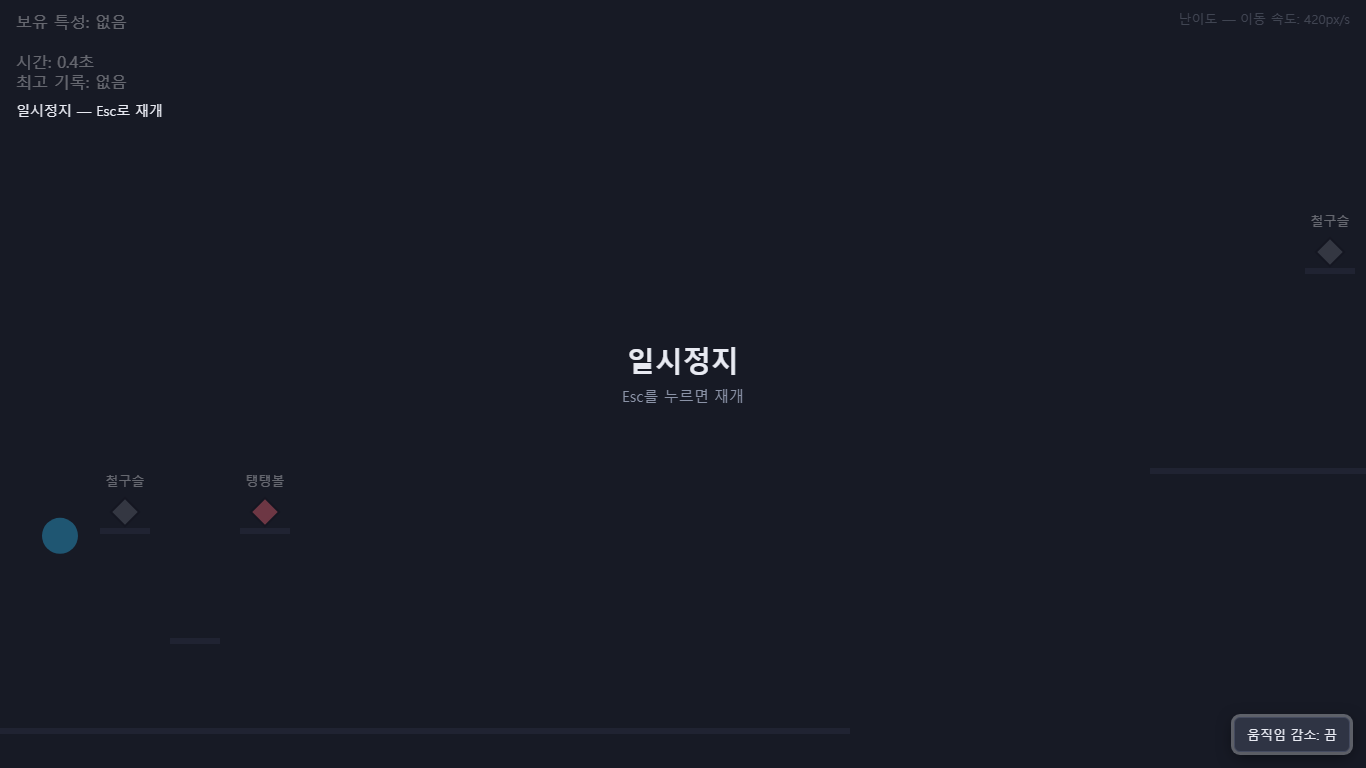
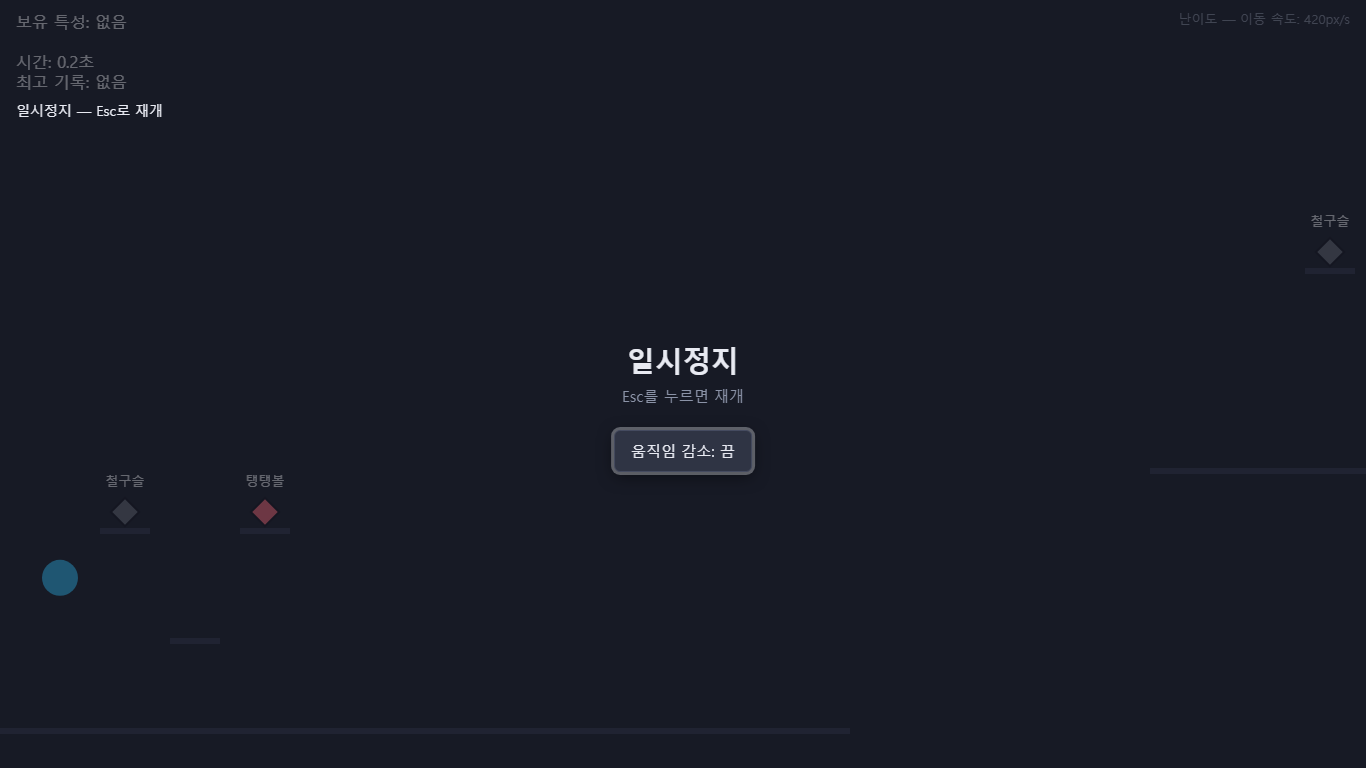
Center the reduce-motion button, fill in verification guide + AI notes
Moves #motion-toggle to sit centered right under the pause message
instead of a corner, so it reads as part of that same prompt. Fills
in ASSIGNMENT.md's 검증 안내서 and AI 3줄 sections -- the only two
blanks the assignment itself designates as fill-after-deploy
submission content, distinct from the progress notes that otherwise
stay out of that file. Also checks off the privacy/secrets scan in
PROGRESS.md after a repo-wide search turned up nothing.

Changed region(s): [[0.8917, 0.9062, 1.0, 1.0], [0.4305, 0.5312, 0.5534, 0.625], [0.0307, 0.6562, 0.0615, 0.7812]]

diff --git a/style.css b/style.css
@@ -28,14 +28,17 @@ html, body {
 
 /* hidden outside of pause -- only shown while paused (see #game-wrap.is-paused below) so it doesn't
    sit on screen as HUD clutter during normal play. display:none also drops it from tab order and
-   click hit-testing while hidden, not just visually. */
+   click hit-testing while hidden, not just visually. centered under the "일시정지 / Esc를 누르면
+   재개" text (drawn on canvas at height/2 -12 and +18) so it reads as part of that same message
+   instead of a corner control easy to miss. */
 #motion-toggle {
   display: none;
   position: absolute;
-  right: 16px;
-  bottom: 16px;
-  padding: 8px 12px;
-  font-size: 13px;
+  left: 50%;
+  top: 50%;
+  transform: translate(-50%, 46px);
+  padding: 10px 16px;
+  font-size: 15px;
   font-family: sans-serif;
   color: #e8eaf2;
   background: #2f3444;

diff --git a/PROGRESS.md b/PROGRESS.md
@@ -15,7 +15,7 @@
 7. ✅ 카드 3 — 데이터 기반 난이도 조정
 8. ✅ 카드 4 — 저장과 복구
 9. ✅ 카드 5 — 손맛과 선택권
-10. ⬜ 배포 검증 안내서 · AI 3줄 작성 · 제출
+10. ✅ 배포 검증 안내서 · AI 3줄 작성 (ASSIGNMENT.md에 최종본 기록) · ⬜ 제출
 
 ## 게임 컨셉
 
@@ -39,7 +39,8 @@
 
 ## 전체 요약
 - 카드 1~5 모두 완료(카드 1은 30초 내 완주만 보류). 카드 5는 실패 시 화면 흔들림 + 움직임 감소 버튼 추가, Playwright 4건 검증
-- 다음 할 일: 배포 검증 안내서 최종본 · AI 3줄 작성 · 제출 준비
+- 검증 안내서·AI 3줄을 ASSIGNMENT.md에 최종 기록 완료. 남은 건 실제 제출뿐
+- 다음 할 일: (선택) 카드 1의 30초 내 완주 검증, 이후 제출
 
 ## 카드별 진행 상황
 
@@ -64,8 +65,8 @@
 - [x] 저장값 비거나 손상돼도 기본값 실행
 - [x] 현재 판 초기화 + 보존 기록 유지
 - [x] 음소거/움직임 감소 작동
-- [ ] 개인정보·비밀값 0건
-- [ ] 학생 자체 점검 항목 모두 완료
+- [x] 개인정보·비밀값 0건 (저장소 전체 텍스트 검색으로 이메일·API 키·비밀번호 패턴 없음 확인)
+- [ ] 학생 자체 점검 항목 모두 완료 (카드 1의 30초 내 완주만 보류)
 
 ## 학생 자체 점검 상세 체크리스트
 
@@ -74,7 +75,7 @@
 **카드 3** — [x] 전/후 10회+ 기록 · [x] 선택 이유 근거 · [x] 기록표 · [x] 바꾼 값+이유
 **카드 4** — [x] 초기화/보존 분리 · [x] 손상값 기본값 실행 · [x] 값 목록 · [x] 검사 결과
 **카드 5** — [x] 사건별 효과 · [x] 음소거/감소 작동 · [x] 화면 파일 · [x] 적용 결과
-**제출물** — [ ] 검증 안내서 · [ ] 3단계 이내 · [ ] AI 3줄
+**제출물** — [x] 검증 안내서 · [x] 3단계 이내 · [x] AI 3줄
 
 ## 카드별 상세 기록
 
@@ -153,23 +154,12 @@
 
 **화면 파일**: [screenshots/card5/](screenshots/card5/) — 01(흔들림 켬) · 02(움직임 감소 켬)
 
-### 검증 안내서 (초안 — 최종 제출 시 ASSIGNMENT.md에 옮겨 적기)
-
-**어디로 가나요**: https://whiteclover0542.github.io/minigame/
-
-**무엇을 하나요**
-1. 방향키/A·D로 공을 움직인다
-2. 발판 위 특성을 밟아 얻고 Space로 발동한다
-3. 목표 지점 도달 또는 위험 요소까지 진행한다
-
-**무엇이 보이면 통과인가요**: 목표 도달 시 "클리어!", 실패 시 "실패" 표시 → 약 1.4초 후 자동 재시작
-
-**안 될 때**: 새로고침 후 재시도, 안 되면 콘솔 오류 확인
+> 검증 안내서·AI 3줄 최종본은 [ASSIGNMENT.md](ASSIGNMENT.md)에 기록함.
 
 ## 제출물 준비 상태
 
-- [ ] 검증 안내서
-- [ ] AI 3줄
+- [x] 검증 안내서 (ASSIGNMENT.md)
+- [x] AI 3줄 (ASSIGNMENT.md)
 - [x] 공개 주소 배포
 
 ## 변경 이력
@@ -178,6 +168,7 @@
 
 | 날짜 | 내용 |
 |---|---|
+| 2026-08-19 | "움직임 감소" 버튼을 일시정지 화면 중앙("Esc를 누르면 재개" 문구 바로 아래)으로 옮겨 더 잘 보이게 함. 검증 안내서와 AI 3줄 최종본을 ASSIGNMENT.md에 기록(과제 원본 지시문의 빈칸을 채우는 제출물이라 이 두 섹션만 예외로 채움). 저장소 전체 텍스트 검색으로 개인정보·비밀값 없음 확인 |
 | 2026-08-19 | "움직임 감소" 버튼을 평소엔 완전히 숨기고 Esc 일시정지 중에만 나타나도록 변경(직전엔 항상 보이되 일시정지 때만 강조하는 방식이었으나, 평소엔 아예 안 보이게 해달라는 요청으로 `display: none` 기본 + `#game-wrap.is-paused`일 때만 표시로 수정). `display:none`이라 숨겨진 동안은 클릭도 안 됨을 확인 |
 | 2026-08-19 | 카드 5 완료: 실패(천장·구덩이·바닥 추락 전부) 시 화면 흔들림(0.35초 감쇠) 추가, 우측 하단 "움직임 감소" 버튼으로 즉시 켜고 끌 수 있음. 흔들림은 카메라 오프셋에만 적용되고 HUD·판정 로직은 별도 레이어라 영향 없음. Playwright 4건 검증(흔들림 트리거, 버튼 토글, 감소 시 판정 정상 동작, 스크린샷) |
 | 2026-08-19 | Esc 수동 일시정지 추가(사용자 요청) — 누르면 입력·물리·타이머가 완전히 멈추고 "일시정지" 오버레이 표시, 다시 누르면 재개. 최고 기록 저장은 재검증 결과 정상 작동(배포 사이트에서 클리어→저장→새로고침 후 유지 확인) — 레벨이 어려워 실제로 클리어를 못 해서 "없음"으로 보였을 가능성 |

diff --git a/ASSIGNMENT.md b/ASSIGNMENT.md
@@ -116,24 +116,24 @@
 > 게임을 배포한 뒤 아래 빈칸을 채운다. 오너가 15초 안에 통과 여부를 판정할 수 있게, 3단계 이내 행동으로 30초 안에 끝나도록 쓴다.
 
 **어디로 가나요**
-- 공개 주소: (배포 후 URL 채우기)
+- 공개 주소: https://whiteclover0542.github.io/minigame/
 
 **무엇을 하나요**
-1. (예: 방향키로 공을 좌우로 움직인다)
-2. (예: 트리거를 밟아 특성을 확인하고 다음 착지에 활용한다)
-3. (예: 목표 지점에 도달하거나 위험 요소에 닿을 때까지 진행한다)
+1. 방향키(←/→) 또는 A/D로 공을 움직여 발판 위 특성 섬에 착지한다
+2. 특성을 얻으면 Space로 발동해 다음 장애물을 통과한다
+3. 초록 발판(목표)에 닿거나 천장·구덩이·바닥으로 떨어질 때까지 진행한다
 
 **무엇이 보이면 통과인가요**
-- (예: 목표 지점 도달 시 "성공" 표시, 위험 요소 접촉 시 "실패" 표시가 뜬다)
-- (예: 다시 시작 버튼을 누르면 공 위치와 트리거 상태가 초기화된다)
+- 목표 지점 도달 시 초록색 "클리어!" 표시, 장애물 충돌·추락 시 빨간색 "실패" 표시가 뜬다
+- 실패 후 약 1.4초 뒤 공 위치·시간·특성 상태가 전부 초기화된 새 판이 자동으로 시작된다
 
 **안 될 때**
-- (예: 화면이 로드되지 않으면 새로고침 후 재시도, 그래도 안 되면 브라우저 콘솔 오류 확인)
+- 화면이 로드되지 않으면 새로고침 후 재시도, 그래도 안 되면 브라우저 콘솔에 빨간 오류가 있는지 확인
 
 ---
 
 ## AI 3줄
 
-- **AI에게 맡긴 일**: (예: 물리 연산 · 트리거 로직 등 반복적인 코드 작성)
-- **내가 판단한 일**: (예: 게임 컨셉 · 특성 종류 · 난이도 값 결정)
-- **AI 말을 안 들은 일**: (예: AI가 제안한 ○○ 대신 △△ 방식을 선택한 이유)
+- **AI에게 맡긴 일**: 물리 연산·충돌 판정·트리거 좌표 계산 같은 반복적인 코드 작성, Playwright로 자동 플레이시켜 버그 찾고 데이터 모으는 것까지 대부분 맡겼다.
+- **내가 판단한 일**: 게임 컨셉과 특성 4종, 레벨을 몇 구간으로 만들지, 일시정지 버튼을 어디에 어떻게 보이게 할지 같은 디자인 방향은 직접 정하고 계속 피드백을 줘서 고쳤다.
+- **AI 말을 안 들은 일**: AI가 봇 하나로만 테스트해서 "이동 속도를 250으로 낮추는 게 낫다"고 결론 냈을 때, 봇 실력이 하나뿐이라 근거가 약하다고 판단해 실력을 여러 단계로 나눠 다시 실험시켰다. 결과가 뒤집혀서 원래 값(420)을 그대로 쓰기로 했다.
